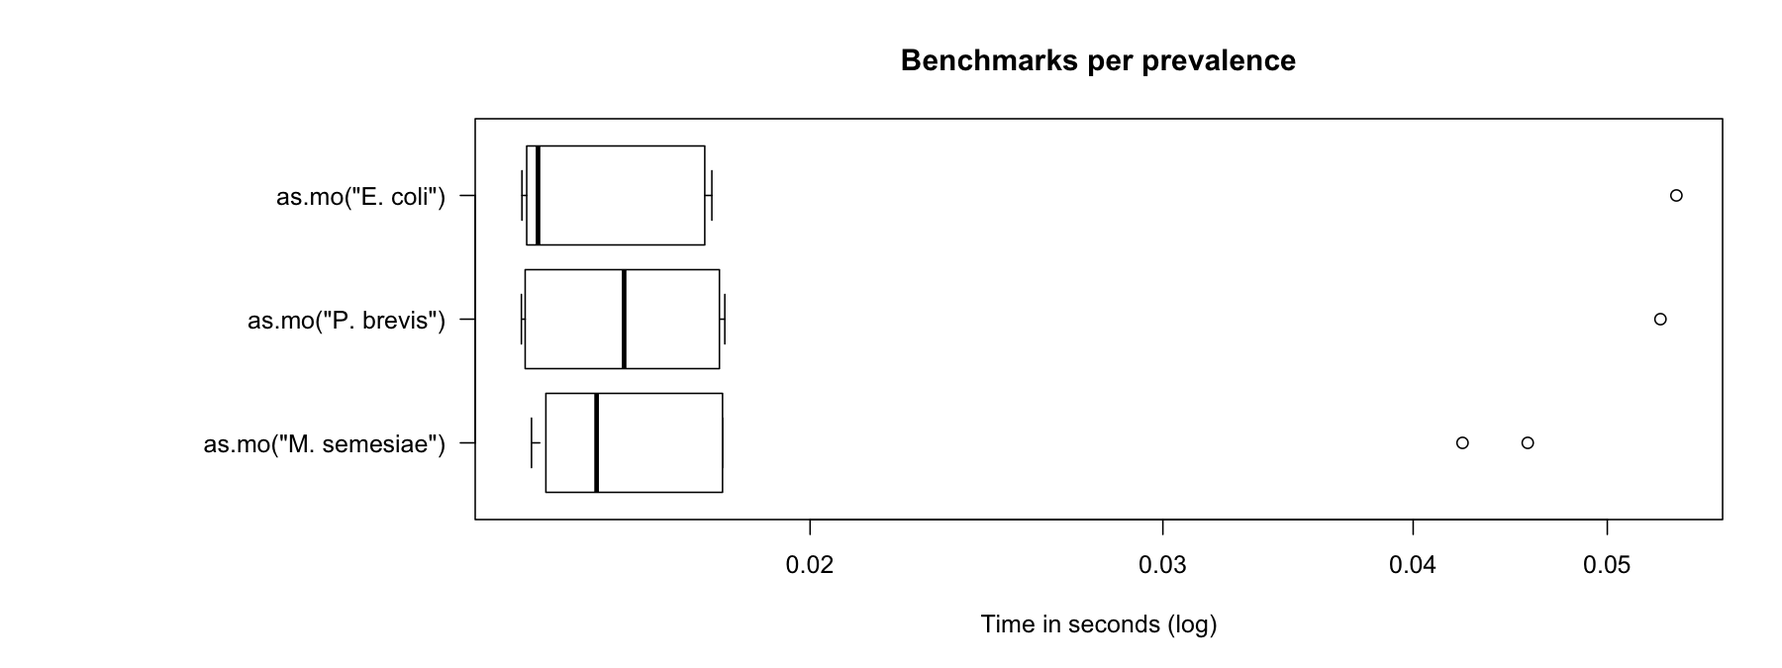
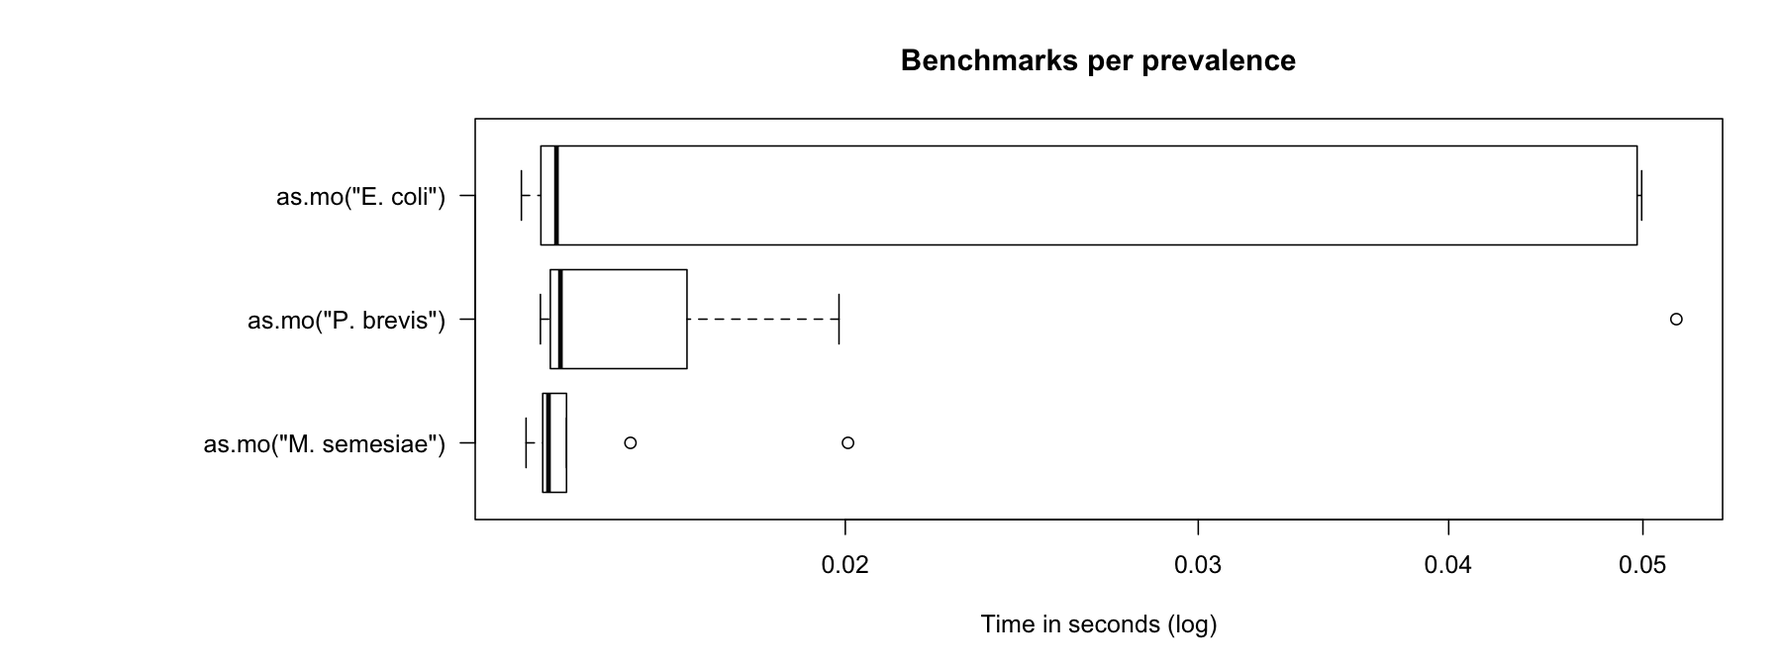
(v0.9.0.9021) inheritance fix

diff --git a/docs/articles/benchmarks.html b/docs/articles/benchmarks.html
@@ -41,7 +41,7 @@
       </button>
       <span class="navbar-brand">
         <a class="navbar-link" href="../index.html">AMR (for R)</a>
-        <span class="version label label-default" data-toggle="tooltip" data-placement="bottom" title="Latest development version">0.9.0.9020</span>
+        <span class="version label label-default" data-toggle="tooltip" data-placement="bottom" title="Latest development version">0.9.0.9021</span>
       </span>
     </div>
 
@@ -187,7 +187,7 @@
       <h1>Benchmarks</h1>
                         <h4 class="author">Matthijs S. Berends</h4>
             
-            <h4 class="date">09 February 2020</h4>
+            <h4 class="date">10 February 2020</h4>
       
       
       <div class="hidden name"><code>benchmarks.Rmd</code></div>
@@ -221,36 +221,21 @@
 <a class="sourceLine" id="cb2-16" data-line-number="16">  <span class="dt">times =</span> <span class="dv">10</span>)</a>
 <a class="sourceLine" id="cb2-17" data-line-number="17"><span class="kw"><a href="https://rdrr.io/r/base/print.html">print</a></span>(S.aureus, <span class="dt">unit =</span> <span class="st">"ms"</span>, <span class="dt">signif =</span> <span class="dv">2</span>)</a>
 <a class="sourceLine" id="cb2-18" data-line-number="18"><span class="co"># Unit: milliseconds</span></a>
-<a class="sourceLine" id="cb2-19" data-line-number="19"><span class="co">#                                   expr   min    lq mean median    uq    max</span></a>
-<a class="sourceLine" id="cb2-20" data-line-number="20"><span class="co">#                           as.mo("sau")   8.0   8.3   14    8.5   9.2   38.0</span></a>
-<a class="sourceLine" id="cb2-21" data-line-number="21"><span class="co">#                          as.mo("stau")  36.0  37.0   42   38.0  43.0   64.0</span></a>
-<a class="sourceLine" id="cb2-22" data-line-number="22"><span class="co">#                          as.mo("STAU")  37.0  38.0   50   45.0  64.0   74.0</span></a>
-<a class="sourceLine" id="cb2-23" data-line-number="23"><span class="co">#                        as.mo("staaur")   7.9   8.3   12    8.9   9.3   37.0</span></a>
-<a class="sourceLine" id="cb2-24" data-line-number="24"><span class="co">#                        as.mo("STAAUR")   8.0   8.2   14    8.3   9.5   36.0</span></a>
-<a class="sourceLine" id="cb2-25" data-line-number="25"><span class="co">#                     as.mo("S. aureus")  14.0  14.0   22   15.0  37.0   40.0</span></a>
-<a class="sourceLine" id="cb2-26" data-line-number="26"><span class="co">#                      as.mo("S aureus")  13.0  14.0   16   14.0  15.0   36.0</span></a>
-<a class="sourceLine" id="cb2-27" data-line-number="27"><span class="co">#         as.mo("Staphylococcus aureus")   4.6   4.8    5    4.9   5.3    5.4</span></a>
-<a class="sourceLine" id="cb2-28" data-line-number="28"><span class="co">#  as.mo("Staphylococcus aureus (MRSA)") 630.0 650.0  730  690.0 710.0 1100.0</span></a>
-<a class="sourceLine" id="cb2-29" data-line-number="29"><span class="co">#       as.mo("Sthafilokkockus aaureuz") 350.0 370.0  400  380.0 420.0  500.0</span></a>
-<a class="sourceLine" id="cb2-30" data-line-number="30"><span class="co">#                          as.mo("MRSA")   8.0   8.2   11    8.3   9.3   33.0</span></a>
-<a class="sourceLine" id="cb2-31" data-line-number="31"><span class="co">#                          as.mo("VISA")  24.0  25.0   46   36.0  49.0  140.0</span></a>
-<a class="sourceLine" id="cb2-32" data-line-number="32"><span class="co">#                          as.mo("VRSA")  23.0  25.0   37   37.0  48.0   49.0</span></a>
-<a class="sourceLine" id="cb2-33" data-line-number="33"><span class="co">#                        as.mo(22242419) 120.0 130.0  140  140.0 150.0  150.0</span></a>
-<a class="sourceLine" id="cb2-34" data-line-number="34"><span class="co">#  neval</span></a>
-<a class="sourceLine" id="cb2-35" data-line-number="35"><span class="co">#     10</span></a>
-<a class="sourceLine" id="cb2-36" data-line-number="36"><span class="co">#     10</span></a>
-<a class="sourceLine" id="cb2-37" data-line-number="37"><span class="co">#     10</span></a>
-<a class="sourceLine" id="cb2-38" data-line-number="38"><span class="co">#     10</span></a>
-<a class="sourceLine" id="cb2-39" data-line-number="39"><span class="co">#     10</span></a>
-<a class="sourceLine" id="cb2-40" data-line-number="40"><span class="co">#     10</span></a>
-<a class="sourceLine" id="cb2-41" data-line-number="41"><span class="co">#     10</span></a>
-<a class="sourceLine" id="cb2-42" data-line-number="42"><span class="co">#     10</span></a>
-<a class="sourceLine" id="cb2-43" data-line-number="43"><span class="co">#     10</span></a>
-<a class="sourceLine" id="cb2-44" data-line-number="44"><span class="co">#     10</span></a>
-<a class="sourceLine" id="cb2-45" data-line-number="45"><span class="co">#     10</span></a>
-<a class="sourceLine" id="cb2-46" data-line-number="46"><span class="co">#     10</span></a>
-<a class="sourceLine" id="cb2-47" data-line-number="47"><span class="co">#     10</span></a>
-<a class="sourceLine" id="cb2-48" data-line-number="48"><span class="co">#     10</span></a></code></pre></div>
+<a class="sourceLine" id="cb2-19" data-line-number="19"><span class="co">#                                   expr   min    lq  mean median    uq max neval</span></a>
+<a class="sourceLine" id="cb2-20" data-line-number="20"><span class="co">#                           as.mo("sau")   8.0   8.2  11.0    8.4   8.6  34    10</span></a>
+<a class="sourceLine" id="cb2-21" data-line-number="21"><span class="co">#                          as.mo("stau")  37.0  37.0  41.0   38.0  40.0  65    10</span></a>
+<a class="sourceLine" id="cb2-22" data-line-number="22"><span class="co">#                          as.mo("STAU")  37.0  38.0  47.0   41.0  62.0  69    10</span></a>
+<a class="sourceLine" id="cb2-23" data-line-number="23"><span class="co">#                        as.mo("staaur")   8.1   8.2  16.0    8.4   8.8  57    10</span></a>
+<a class="sourceLine" id="cb2-24" data-line-number="24"><span class="co">#                        as.mo("STAAUR")   8.1   8.3  11.0    8.5   8.9  34    10</span></a>
+<a class="sourceLine" id="cb2-25" data-line-number="25"><span class="co">#                     as.mo("S. aureus")  14.0  14.0  21.0   14.0  36.0  37    10</span></a>
+<a class="sourceLine" id="cb2-26" data-line-number="26"><span class="co">#                      as.mo("S aureus")  13.0  14.0  20.0   15.0  16.0  47    10</span></a>
+<a class="sourceLine" id="cb2-27" data-line-number="27"><span class="co">#         as.mo("Staphylococcus aureus")   4.7   4.8   8.6    4.9   6.2  39    10</span></a>
+<a class="sourceLine" id="cb2-28" data-line-number="28"><span class="co">#  as.mo("Staphylococcus aureus (MRSA)") 640.0 650.0 680.0  660.0 680.0 790    10</span></a>
+<a class="sourceLine" id="cb2-29" data-line-number="29"><span class="co">#       as.mo("Sthafilokkockus aaureuz") 330.0 350.0 390.0  390.0 430.0 500    10</span></a>
+<a class="sourceLine" id="cb2-30" data-line-number="30"><span class="co">#                          as.mo("MRSA")   8.0   8.5  17.0    9.0  33.0  43    10</span></a>
+<a class="sourceLine" id="cb2-31" data-line-number="31"><span class="co">#                          as.mo("VISA")  24.0  24.0  36.0   30.0  47.0  56    10</span></a>
+<a class="sourceLine" id="cb2-32" data-line-number="32"><span class="co">#                          as.mo("VRSA")  24.0  25.0  60.0   36.0  50.0 270    10</span></a>
+<a class="sourceLine" id="cb2-33" data-line-number="33"><span class="co">#                        as.mo(22242419) 120.0 120.0 130.0  130.0 140.0 150    10</span></a></code></pre></div>
 <p><img src="benchmarks_files/figure-html/unnamed-chunk-4-1.png" width="562.5"></p>
 <p>In the table above, all measurements are shown in milliseconds (thousands of seconds). A value of 5 milliseconds means it can determine 200 input values per second. It case of 100 milliseconds, this is only 10 input values per second.</p>
 <p>To achieve this speed, the <code>as.mo</code> function also takes into account the prevalence of human pathogenic microorganisms. The downside of this is of course that less prevalent microorganisms will be determined less fast. See this example for the ID of <em>Methanosarcina semesiae</em> (<code>B_MTHNSR_SEMS</code>), a bug probably never found before in humans:</p>
@@ -262,18 +247,18 @@
 <a class="sourceLine" id="cb3-6" data-line-number="6">                             <span class="dt">times =</span> <span class="dv">10</span>)</a>
 <a class="sourceLine" id="cb3-7" data-line-number="7"><span class="kw"><a href="https://rdrr.io/r/base/print.html">print</a></span>(M.semesiae, <span class="dt">unit =</span> <span class="st">"ms"</span>, <span class="dt">signif =</span> <span class="dv">4</span>)</a>
 <a class="sourceLine" id="cb3-8" data-line-number="8"><span class="co"># Unit: milliseconds</span></a>
-<a class="sourceLine" id="cb3-9" data-line-number="9"><span class="co">#                              expr      min       lq    mean  median       uq</span></a>
-<a class="sourceLine" id="cb3-10" data-line-number="10"><span class="co">#                   as.mo("metsem") 1412.000 1475.000 1514.00 1503.00 1553.000</span></a>
-<a class="sourceLine" id="cb3-11" data-line-number="11"><span class="co">#                   as.mo("METSEM") 1348.000 1448.000 1470.00 1471.00 1512.000</span></a>
-<a class="sourceLine" id="cb3-12" data-line-number="12"><span class="co">#              as.mo("M. semesiae")   14.410   14.600   20.03   14.84   16.170</span></a>
-<a class="sourceLine" id="cb3-13" data-line-number="13"><span class="co">#             as.mo("M.  semesiae")   14.640   15.070   26.61   18.52   41.270</span></a>
-<a class="sourceLine" id="cb3-14" data-line-number="14"><span class="co">#  as.mo("Methanosarcina semesiae")    5.289    5.508   11.34    5.63    5.837</span></a>
+<a class="sourceLine" id="cb3-9" data-line-number="9"><span class="co">#                              expr      min       lq     mean   median      uq</span></a>
+<a class="sourceLine" id="cb3-10" data-line-number="10"><span class="co">#                   as.mo("metsem") 1422.000 1474.000 1511.000 1515.000 1544.00</span></a>
+<a class="sourceLine" id="cb3-11" data-line-number="11"><span class="co">#                   as.mo("METSEM") 1381.000 1446.000 1457.000 1458.000 1477.00</span></a>
+<a class="sourceLine" id="cb3-12" data-line-number="12"><span class="co">#              as.mo("M. semesiae")   14.390   14.520   18.050   15.000   17.64</span></a>
+<a class="sourceLine" id="cb3-13" data-line-number="13"><span class="co">#             as.mo("M.  semesiae")   14.330   14.570   17.690   14.740   15.14</span></a>
+<a class="sourceLine" id="cb3-14" data-line-number="14"><span class="co">#  as.mo("Methanosarcina semesiae")    5.261    5.342    7.848    5.459    5.63</span></a>
 <a class="sourceLine" id="cb3-15" data-line-number="15"><span class="co">#      max neval</span></a>
-<a class="sourceLine" id="cb3-16" data-line-number="16"><span class="co">#  1634.00    10</span></a>
-<a class="sourceLine" id="cb3-17" data-line-number="17"><span class="co">#  1554.00    10</span></a>
-<a class="sourceLine" id="cb3-18" data-line-number="18"><span class="co">#    41.27    10</span></a>
-<a class="sourceLine" id="cb3-19" data-line-number="19"><span class="co">#    45.83    10</span></a>
-<a class="sourceLine" id="cb3-20" data-line-number="20"><span class="co">#    35.94    10</span></a></code></pre></div>
+<a class="sourceLine" id="cb3-16" data-line-number="16"><span class="co">#  1617.00    10</span></a>
+<a class="sourceLine" id="cb3-17" data-line-number="17"><span class="co">#  1520.00    10</span></a>
+<a class="sourceLine" id="cb3-18" data-line-number="18"><span class="co">#    39.73    10</span></a>
+<a class="sourceLine" id="cb3-19" data-line-number="19"><span class="co">#    39.72    10</span></a>
+<a class="sourceLine" id="cb3-20" data-line-number="20"><span class="co">#    29.36    10</span></a></code></pre></div>
 <p>That takes 5.6 times as much time on average. We can conclude that looking up arbitrary codes of less prevalent microorganisms is the worst way to go, in terms of calculation performance. Full names (like <em>Methanosarcina semesiae</em>) are always very fast and only take some thousands of seconds to coerce - they are the most probable input from most data sets.</p>
 <p>In the figure below, we compare <em>Escherichia coli</em> (which is very common) with <em>Prevotella brevis</em> (which is moderately common) and with <em>Methanosarcina semesiae</em> (which is uncommon):</p>
 <p><img src="benchmarks_files/figure-html/unnamed-chunk-6-1.png" width="900"></p>
@@ -308,8 +293,8 @@
 <a class="sourceLine" id="cb4-24" data-line-number="24"><span class="kw"><a href="https://rdrr.io/r/base/print.html">print</a></span>(run_it, <span class="dt">unit =</span> <span class="st">"ms"</span>, <span class="dt">signif =</span> <span class="dv">3</span>)</a>
 <a class="sourceLine" id="cb4-25" data-line-number="25"><span class="co"># Unit: milliseconds</span></a>
 <a class="sourceLine" id="cb4-26" data-line-number="26"><span class="co">#        expr min  lq mean median  uq max neval</span></a>
-<a class="sourceLine" id="cb4-27" data-line-number="27"><span class="co">#  mo_name(x) 574 626  649    644 660 787   100</span></a></code></pre></div>
-<p>So transforming 500,000 values (!!) of 50 unique values only takes 0.64 seconds (643 ms). You only lose time on your unique input values.</p>
+<a class="sourceLine" id="cb4-27" data-line-number="27"><span class="co">#  mo_name(x) 566 598  628    621 645 782   100</span></a></code></pre></div>
+<p>So transforming 500,000 values (!!) of 50 unique values only takes 0.62 seconds (620 ms). You only lose time on your unique input values.</p>
 </div>
 <div id="precalculated-results" class="section level3">
 <h3 class="hasAnchor">
@@ -321,11 +306,11 @@
 <a class="sourceLine" id="cb5-4" data-line-number="4">                         <span class="dt">times =</span> <span class="dv">10</span>)</a>
 <a class="sourceLine" id="cb5-5" data-line-number="5"><span class="kw"><a href="https://rdrr.io/r/base/print.html">print</a></span>(run_it, <span class="dt">unit =</span> <span class="st">"ms"</span>, <span class="dt">signif =</span> <span class="dv">3</span>)</a>
 <a class="sourceLine" id="cb5-6" data-line-number="6"><span class="co"># Unit: milliseconds</span></a>
-<a class="sourceLine" id="cb5-7" data-line-number="7"><span class="co">#  expr    min     lq   mean median     uq    max neval</span></a>
-<a class="sourceLine" id="cb5-8" data-line-number="8"><span class="co">#     A  6.370  6.460  9.890   6.53  6.900 39.400    10</span></a>
-<a class="sourceLine" id="cb5-9" data-line-number="9"><span class="co">#     B 13.400 13.500 13.800  13.60 14.100 14.500    10</span></a>
-<a class="sourceLine" id="cb5-10" data-line-number="10"><span class="co">#     C  0.795  0.825  0.851   0.84  0.849  0.973    10</span></a></code></pre></div>
-<p>So going from <code><a href="../reference/mo_property.html">mo_name("Staphylococcus aureus")</a></code> to <code>"Staphylococcus aureus"</code> takes 0.0008 seconds - it doesn’t even start calculating <em>if the result would be the same as the expected resulting value</em>. That goes for all helper functions:</p>
+<a class="sourceLine" id="cb5-7" data-line-number="7"><span class="co">#  expr    min     lq  mean median     uq   max neval</span></a>
+<a class="sourceLine" id="cb5-8" data-line-number="8"><span class="co">#     A  6.120  6.540  7.44  6.900  8.830  9.12    10</span></a>
+<a class="sourceLine" id="cb5-9" data-line-number="9"><span class="co">#     B 13.600 13.800 14.50 14.200 15.000 16.30    10</span></a>
+<a class="sourceLine" id="cb5-10" data-line-number="10"><span class="co">#     C  0.841  0.859  3.82  0.876  0.917 30.30    10</span></a></code></pre></div>
+<p>So going from <code><a href="../reference/mo_property.html">mo_name("Staphylococcus aureus")</a></code> to <code>"Staphylococcus aureus"</code> takes 0.0009 seconds - it doesn’t even start calculating <em>if the result would be the same as the expected resulting value</em>. That goes for all helper functions:</p>
 <div class="sourceCode" id="cb6"><pre class="sourceCode r"><code class="sourceCode r"><a class="sourceLine" id="cb6-1" data-line-number="1">run_it &lt;-<span class="st"> </span><span class="kw"><a href="https://rdrr.io/pkg/microbenchmark/man/microbenchmark.html">microbenchmark</a></span>(<span class="dt">A =</span> <span class="kw"><a href="../reference/mo_property.html">mo_species</a></span>(<span class="st">"aureus"</span>),</a>
 <a class="sourceLine" id="cb6-2" data-line-number="2">                         <span class="dt">B =</span> <span class="kw"><a href="../reference/mo_property.html">mo_genus</a></span>(<span class="st">"Staphylococcus"</span>),</a>
 <a class="sourceLine" id="cb6-3" data-line-number="3">                         <span class="dt">C =</span> <span class="kw"><a href="../reference/mo_property.html">mo_name</a></span>(<span class="st">"Staphylococcus aureus"</span>),</a>
@@ -338,14 +323,14 @@
 <a class="sourceLine" id="cb6-10" data-line-number="10"><span class="kw"><a href="https://rdrr.io/r/base/print.html">print</a></span>(run_it, <span class="dt">unit =</span> <span class="st">"ms"</span>, <span class="dt">signif =</span> <span class="dv">3</span>)</a>
 <a class="sourceLine" id="cb6-11" data-line-number="11"><span class="co"># Unit: milliseconds</span></a>
 <a class="sourceLine" id="cb6-12" data-line-number="12"><span class="co">#  expr   min    lq  mean median    uq   max neval</span></a>
-<a class="sourceLine" id="cb6-13" data-line-number="13"><span class="co">#     A 0.451 0.485 0.488  0.489 0.495 0.518    10</span></a>
-<a class="sourceLine" id="cb6-14" data-line-number="14"><span class="co">#     B 0.507 0.510 0.526  0.522 0.538 0.554    10</span></a>
-<a class="sourceLine" id="cb6-15" data-line-number="15"><span class="co">#     C 0.732 0.742 0.769  0.781 0.786 0.807    10</span></a>
-<a class="sourceLine" id="cb6-16" data-line-number="16"><span class="co">#     D 0.507 0.514 0.534  0.531 0.549 0.585    10</span></a>
-<a class="sourceLine" id="cb6-17" data-line-number="17"><span class="co">#     E 0.469 0.486 0.492  0.489 0.499 0.532    10</span></a>
-<a class="sourceLine" id="cb6-18" data-line-number="18"><span class="co">#     F 0.473 0.479 0.483  0.481 0.482 0.513    10</span></a>
-<a class="sourceLine" id="cb6-19" data-line-number="19"><span class="co">#     G 0.466 0.469 0.481  0.480 0.486 0.517    10</span></a>
-<a class="sourceLine" id="cb6-20" data-line-number="20"><span class="co">#     H 0.468 0.476 0.502  0.483 0.494 0.665    10</span></a></code></pre></div>
+<a class="sourceLine" id="cb6-13" data-line-number="13"><span class="co">#     A 0.517 0.522 0.570  0.540 0.575 0.756    10</span></a>
+<a class="sourceLine" id="cb6-14" data-line-number="14"><span class="co">#     B 0.536 0.550 0.584  0.559 0.579 0.801    10</span></a>
+<a class="sourceLine" id="cb6-15" data-line-number="15"><span class="co">#     C 0.696 0.776 0.804  0.828 0.841 0.908    10</span></a>
+<a class="sourceLine" id="cb6-16" data-line-number="16"><span class="co">#     D 0.531 0.552 0.597  0.576 0.616 0.784    10</span></a>
+<a class="sourceLine" id="cb6-17" data-line-number="17"><span class="co">#     E 0.520 0.529 0.549  0.534 0.569 0.626    10</span></a>
+<a class="sourceLine" id="cb6-18" data-line-number="18"><span class="co">#     F 0.483 0.491 0.519  0.517 0.521 0.580    10</span></a>
+<a class="sourceLine" id="cb6-19" data-line-number="19"><span class="co">#     G 0.509 0.514 0.545  0.520 0.537 0.763    10</span></a>
+<a class="sourceLine" id="cb6-20" data-line-number="20"><span class="co">#     H 0.464 0.514 0.555  0.542 0.593 0.698    10</span></a></code></pre></div>
 <p>Of course, when running <code><a href="../reference/mo_property.html">mo_phylum("Firmicutes")</a></code> the function has zero knowledge about the actual microorganism, namely <em>S. aureus</em>. But since the result would be <code>"Firmicutes"</code> anyway, there is no point in calculating the result. And because this package ‘knows’ all phyla of all known bacteria (according to the Catalogue of Life), it can just return the initial value immediately.</p>
 </div>
 <div id="results-in-other-languages" class="section level3">
@@ -372,13 +357,13 @@
 <a class="sourceLine" id="cb7-18" data-line-number="18"><span class="kw"><a href="https://rdrr.io/r/base/print.html">print</a></span>(run_it, <span class="dt">unit =</span> <span class="st">"ms"</span>, <span class="dt">signif =</span> <span class="dv">4</span>)</a>
 <a class="sourceLine" id="cb7-19" data-line-number="19"><span class="co"># Unit: milliseconds</span></a>
 <a class="sourceLine" id="cb7-20" data-line-number="20"><span class="co">#  expr   min    lq  mean median    uq    max neval</span></a>
-<a class="sourceLine" id="cb7-21" data-line-number="21"><span class="co">#    en 24.62 25.46 32.22  25.95 27.72 146.70   100</span></a>
-<a class="sourceLine" id="cb7-22" data-line-number="22"><span class="co">#    de 25.97 26.93 33.24  27.52 29.66  64.41   100</span></a>
-<a class="sourceLine" id="cb7-23" data-line-number="23"><span class="co">#    nl 31.00 32.90 37.58  33.48 35.16  69.10   100</span></a>
-<a class="sourceLine" id="cb7-24" data-line-number="24"><span class="co">#    es 25.86 26.98 32.09  27.47 28.42  67.33   100</span></a>
-<a class="sourceLine" id="cb7-25" data-line-number="25"><span class="co">#    it 25.71 26.95 33.87  27.67 31.49  62.06   100</span></a>
-<a class="sourceLine" id="cb7-26" data-line-number="26"><span class="co">#    fr 25.80 27.00 31.05  27.41 28.07  72.99   100</span></a>
-<a class="sourceLine" id="cb7-27" data-line-number="27"><span class="co">#    pt 25.80 27.02 33.26  27.51 31.44  63.41   100</span></a></code></pre></div>
+<a class="sourceLine" id="cb7-21" data-line-number="21"><span class="co">#    en 23.52 25.12 30.94  26.03 26.90  68.07   100</span></a>
+<a class="sourceLine" id="cb7-22" data-line-number="22"><span class="co">#    de 24.94 26.64 33.82  27.81 30.86 152.10   100</span></a>
+<a class="sourceLine" id="cb7-23" data-line-number="23"><span class="co">#    nl 30.28 32.60 37.42  33.81 35.15  72.52   100</span></a>
+<a class="sourceLine" id="cb7-24" data-line-number="24"><span class="co">#    es 24.86 26.55 31.91  27.42 28.91  80.24   100</span></a>
+<a class="sourceLine" id="cb7-25" data-line-number="25"><span class="co">#    it 24.54 26.61 32.10  27.45 28.35  69.43   100</span></a>
+<a class="sourceLine" id="cb7-26" data-line-number="26"><span class="co">#    fr 24.75 26.30 30.43  27.50 28.37  64.56   100</span></a>
+<a class="sourceLine" id="cb7-27" data-line-number="27"><span class="co">#    pt 24.95 26.38 31.37  27.32 28.38  66.08   100</span></a></code></pre></div>
 <p>Currently supported are German, Dutch, Spanish, Italian, French and Portuguese.</p>
 </div>
   </div>

diff --git a/docs/news/index.html b/docs/news/index.html
@@ -84,7 +84,7 @@
       </button>
       <span class="navbar-brand">
         <a class="navbar-link" href="../index.html">AMR (for R)</a>
-        <span class="version label label-default" data-toggle="tooltip" data-placement="bottom" title="Latest development version">0.9.0.9020</span>
+        <span class="version label label-default" data-toggle="tooltip" data-placement="bottom" title="Latest development version">0.9.0.9021</span>
       </span>
     </div>
 
@@ -231,13 +231,13 @@
       
     </div>
 
-    <div id="amr-0-9-0-9020" class="section level1">
+    <div id="amr-0-9-0-9021" class="section level1">
 <h1 class="page-header">
-<a href="#amr-0-9-0-9020" class="anchor"></a>AMR 0.9.0.9020<small> Unreleased </small>
+<a href="#amr-0-9-0-9021" class="anchor"></a>AMR 0.9.0.9021<small> Unreleased </small>
 </h1>
-<div id="last-updated-09-feb-2020" class="section level2">
+<div id="last-updated-10-feb-2020" class="section level2">
 <h2 class="hasAnchor">
-<a href="#last-updated-09-feb-2020" class="anchor"></a><small>Last updated: 09-Feb-2020</small>
+<a href="#last-updated-10-feb-2020" class="anchor"></a><small>Last updated: 10-Feb-2020</small>
 </h2>
 <div id="new" class="section level3">
 <h3 class="hasAnchor">
@@ -1467,7 +1467,7 @@ Using <code><a href="../reference/as.mo.html">as.mo(..., allow_uncertain = 3)</a
     <div id="tocnav">
       <h2>Contents</h2>
       <ul class="nav nav-pills nav-stacked">
-        <li><a href="#amr-0-9-0-9020">0.9.0.9020</a></li>
+        <li><a href="#amr-0-9-0-9021">0.9.0.9021</a></li>
         <li><a href="#amr-0-9-0">0.9.0</a></li>
         <li><a href="#amr-0-8-0">0.8.0</a></li>
         <li><a href="#amr-0-7-1">0.7.1</a></li>

diff --git a/docs/404.html b/docs/404.html
@@ -84,7 +84,7 @@
       </button>
       <span class="navbar-brand">
         <a class="navbar-link" href="https://msberends.gitlab.io/AMR/index.html">AMR (for R)</a>
-        <span class="version label label-default" data-toggle="tooltip" data-placement="bottom" title="Latest development version">0.9.0.9020</span>
+        <span class="version label label-default" data-toggle="tooltip" data-placement="bottom" title="Latest development version">0.9.0.9021</span>
       </span>
     </div>
 

diff --git a/docs/articles/index.html b/docs/articles/index.html
@@ -84,7 +84,7 @@
       </button>
       <span class="navbar-brand">
         <a class="navbar-link" href="../index.html">AMR (for R)</a>
-        <span class="version label label-default" data-toggle="tooltip" data-placement="bottom" title="Latest development version">0.9.0.9020</span>
+        <span class="version label label-default" data-toggle="tooltip" data-placement="bottom" title="Latest development version">0.9.0.9021</span>
       </span>
     </div>
 

diff --git a/docs/reference/antibiotics.html b/docs/reference/antibiotics.html
@@ -85,7 +85,7 @@
       </button>
       <span class="navbar-brand">
         <a class="navbar-link" href="../index.html">AMR (for R)</a>
-        <span class="version label label-default" data-toggle="tooltip" data-placement="bottom" title="Latest development version">0.9.0.9020</span>
+        <span class="version label label-default" data-toggle="tooltip" data-placement="bottom" title="Latest development version">0.9.0.9021</span>
       </span>
     </div>
 

diff --git a/docs/reference/as.mo.html b/docs/reference/as.mo.html
@@ -85,7 +85,7 @@
       </button>
       <span class="navbar-brand">
         <a class="navbar-link" href="../index.html">AMR (for R)</a>
-        <span class="version label label-default" data-toggle="tooltip" data-placement="bottom" title="Latest development version">0.9.0.9020</span>
+        <span class="version label label-default" data-toggle="tooltip" data-placement="bottom" title="Latest development version">0.9.0.9021</span>
       </span>
     </div>
 

diff --git a/docs/reference/index.html b/docs/reference/index.html
@@ -84,7 +84,7 @@
       </button>
       <span class="navbar-brand">
         <a class="navbar-link" href="../index.html">AMR (for R)</a>
-        <span class="version label label-default" data-toggle="tooltip" data-placement="bottom" title="Latest development version">0.9.0.9020</span>
+        <span class="version label label-default" data-toggle="tooltip" data-placement="bottom" title="Latest development version">0.9.0.9021</span>
       </span>
     </div>
 

diff --git a/docs/reference/microorganisms.codes.html b/docs/reference/microorganisms.codes.html
@@ -85,7 +85,7 @@
       </button>
       <span class="navbar-brand">
         <a class="navbar-link" href="../index.html">AMR (for R)</a>
-        <span class="version label label-default" data-toggle="tooltip" data-placement="bottom" title="Latest development version">0.9.0.9020</span>
+        <span class="version label label-default" data-toggle="tooltip" data-placement="bottom" title="Latest development version">0.9.0.9021</span>
       </span>
     </div>
 

diff --git a/docs/reference/microorganisms.html b/docs/reference/microorganisms.html
@@ -85,7 +85,7 @@
       </button>
       <span class="navbar-brand">
         <a class="navbar-link" href="../index.html">AMR (for R)</a>
-        <span class="version label label-default" data-toggle="tooltip" data-placement="bottom" title="Latest development version">0.9.0.9020</span>
+        <span class="version label label-default" data-toggle="tooltip" data-placement="bottom" title="Latest development version">0.9.0.9021</span>
       </span>
     </div>
 

diff --git a/docs/LICENSE-text.html b/docs/LICENSE-text.html
@@ -84,7 +84,7 @@
       </button>
       <span class="navbar-brand">
         <a class="navbar-link" href="index.html">AMR (for R)</a>
-        <span class="version label label-default" data-toggle="tooltip" data-placement="bottom" title="Latest development version">0.9.0.9020</span>
+        <span class="version label label-default" data-toggle="tooltip" data-placement="bottom" title="Latest development version">0.9.0.9021</span>
       </span>
     </div>
 

diff --git a/docs/authors.html b/docs/authors.html
@@ -84,7 +84,7 @@
       </button>
       <span class="navbar-brand">
         <a class="navbar-link" href="index.html">AMR (for R)</a>
-        <span class="version label label-default" data-toggle="tooltip" data-placement="bottom" title="Latest development version">0.9.0.9020</span>
+        <span class="version label label-default" data-toggle="tooltip" data-placement="bottom" title="Latest development version">0.9.0.9021</span>
       </span>
     </div>
 

diff --git a/docs/index.html b/docs/index.html
@@ -45,7 +45,7 @@
       </button>
       <span class="navbar-brand">
         <a class="navbar-link" href="index.html">AMR (for R)</a>
-        <span class="version label label-default" data-toggle="tooltip" data-placement="bottom" title="Latest development version">0.9.0.9020</span>
+        <span class="version label label-default" data-toggle="tooltip" data-placement="bottom" title="Latest development version">0.9.0.9021</span>
       </span>
     </div>
 
